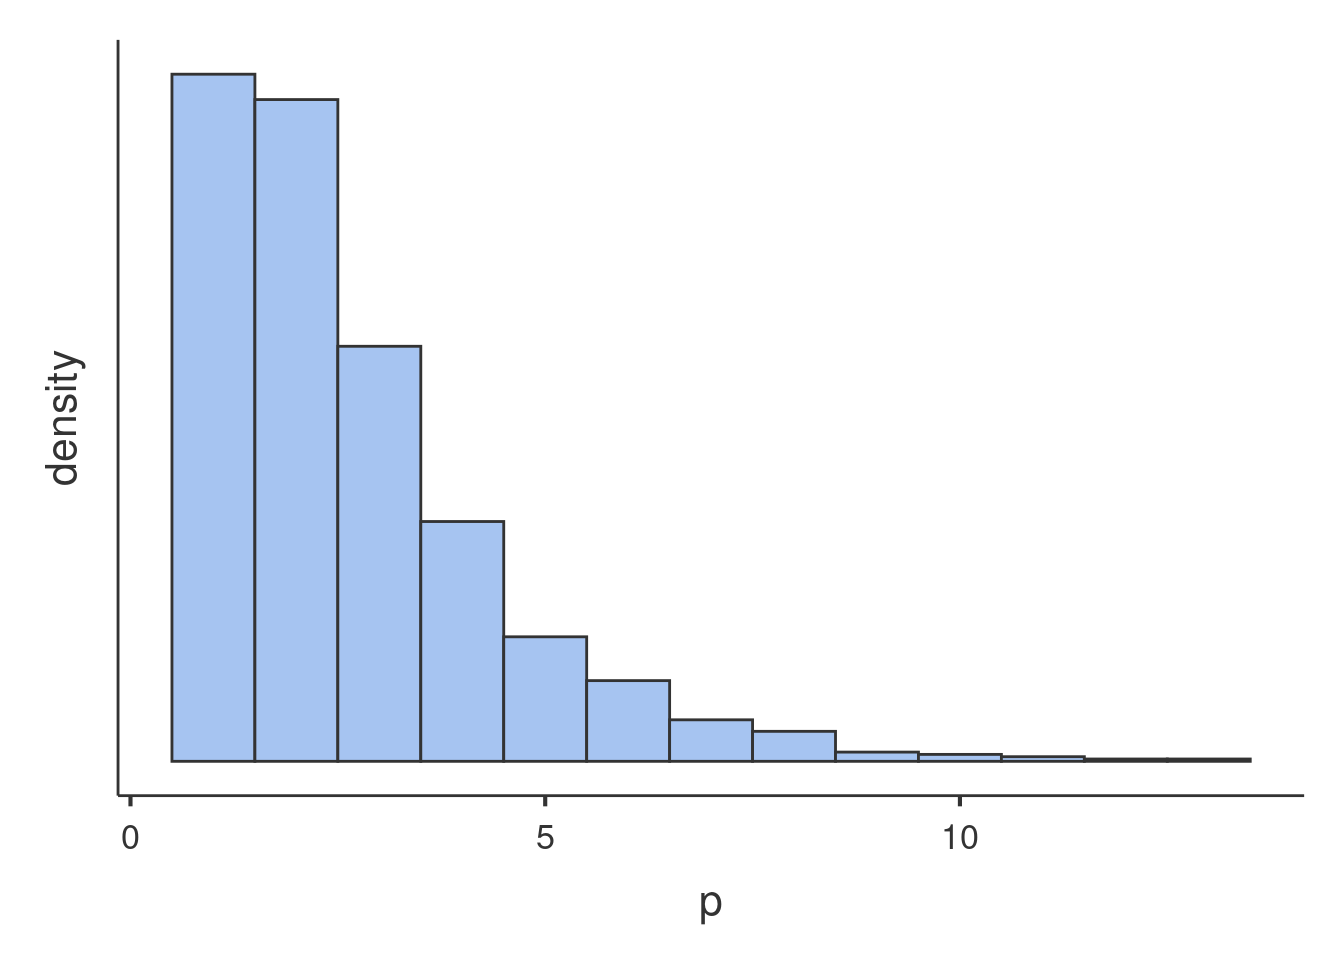
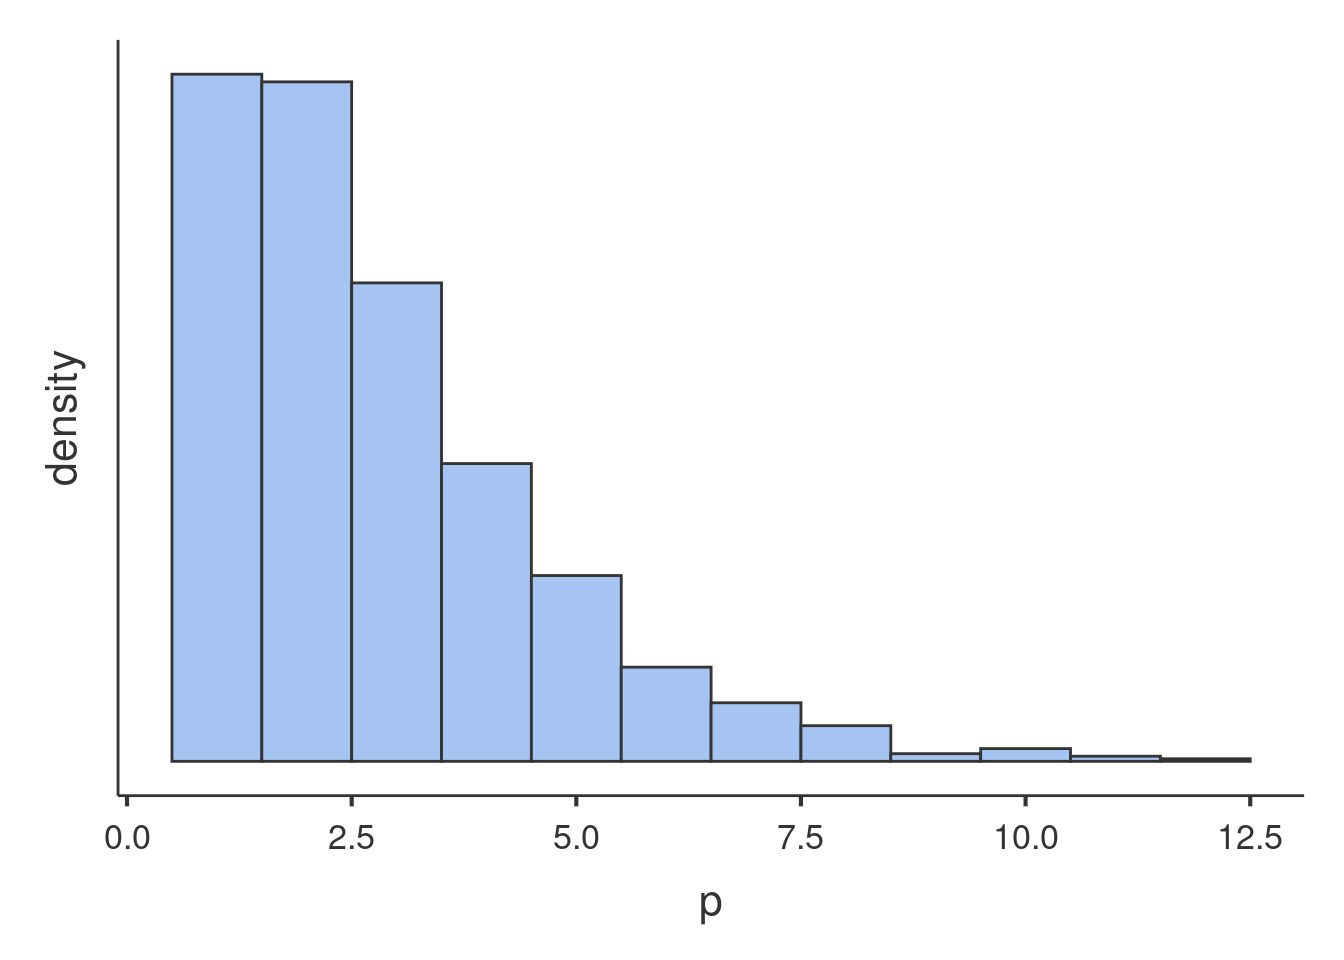
updates

diff --git a/docssource/glmmixed_example2.html b/docssource/glmmixed_example2.html
@@ -383,7 +383,7 @@ div.tocify {
 <p><img src="glmmixed_example2_files/figure-html/unnamed-chunk-2-1.png" width="672" /></p>
 <p>Glancing at the histogram makes it clear that the distribution is not normal, but it roughly resembles the Poisson distribution. Here is an example of Poisson distribution with equivalent mean.</p>
 <p><img src="glmmixed_example2_files/figure-html/unnamed-chunk-3-1.png" width="672" /></p>
-<p>We can see that the shape of our distribution is not qualitatively very different as compared with a theoretical Poisson distribution, so a Generalized Linear Model with Poisson distribition may work. However, we can check wheather our distribution is in line with the features of the Poisson dist by checking its mean and variance. The Poisson distribution has variance equal to the mean, in fact the simulated distribution in the histogram has <span class="math inline">\(\bar{x}=1.721\)</span> and <span class="math inline">\(s^2=1.767\)</span>. The <code>art</code> variable distribution has <span class="math inline">\(\bar{x}=1.693\)</span> and <span class="math inline">\(s^2=3.71\)</span>, with a ratio variance/mean of 2.191, which does not really qualify for Poisson dist. This looks like a case of <strong>overdispersion</strong>, <a href="http://bbolker.github.io/mixedmodels-misc/glmmFAQ.html#overdispersion">cf. here for details</a>. We will than consider a Negative Binomial model to account for possible overdispersion.</p>
+<p>We can see that the shape of our distribution is not qualitatively very different as compared with a theoretical Poisson distribution, so a Generalized Linear Model with Poisson distribition may work. However, we can check wheather our distribution is in line with the features of the Poisson dist by checking its mean and variance. The Poisson distribution has variance equal to the mean, in fact the simulated distribution in the histogram has <span class="math inline">\(\bar{x}=1.686\)</span> and <span class="math inline">\(s^2=1.595\)</span>. The <code>art</code> variable distribution has <span class="math inline">\(\bar{x}=1.693\)</span> and <span class="math inline">\(s^2=3.71\)</span>, with a ratio variance/mean of 2.191, which does not really qualify for Poisson dist. This looks like a case of <strong>overdispersion</strong>, <a href="http://bbolker.github.io/mixedmodels-misc/glmmFAQ.html#overdispersion">cf. here for details</a>. We will than consider a Negative Binomial model to account for possible overdispersion.</p>
 <p>An example of Negative Binomial distribution with equivalent mean and variance is here.</p>
 <p><img src="glmmixed_example2_files/figure-html/unnamed-chunk-4-1.png" width="672" /></p>
 <p>The second issue one needs to deal with is the structure of the data. We have seen that the students are not a random sample of students drawn independently one each other, but they are grouped by the program they are enrolled in. There are 83 programs, in each program there are on average 11 students. Because students in the same program may be more similar one each other than across programs, <code>programs</code> may cluster the scores of the dependent variable and create dependency in the data. To take dependency into the account, we will use a random intercepts model estimated with a Generalized Mixed Model.</p>
